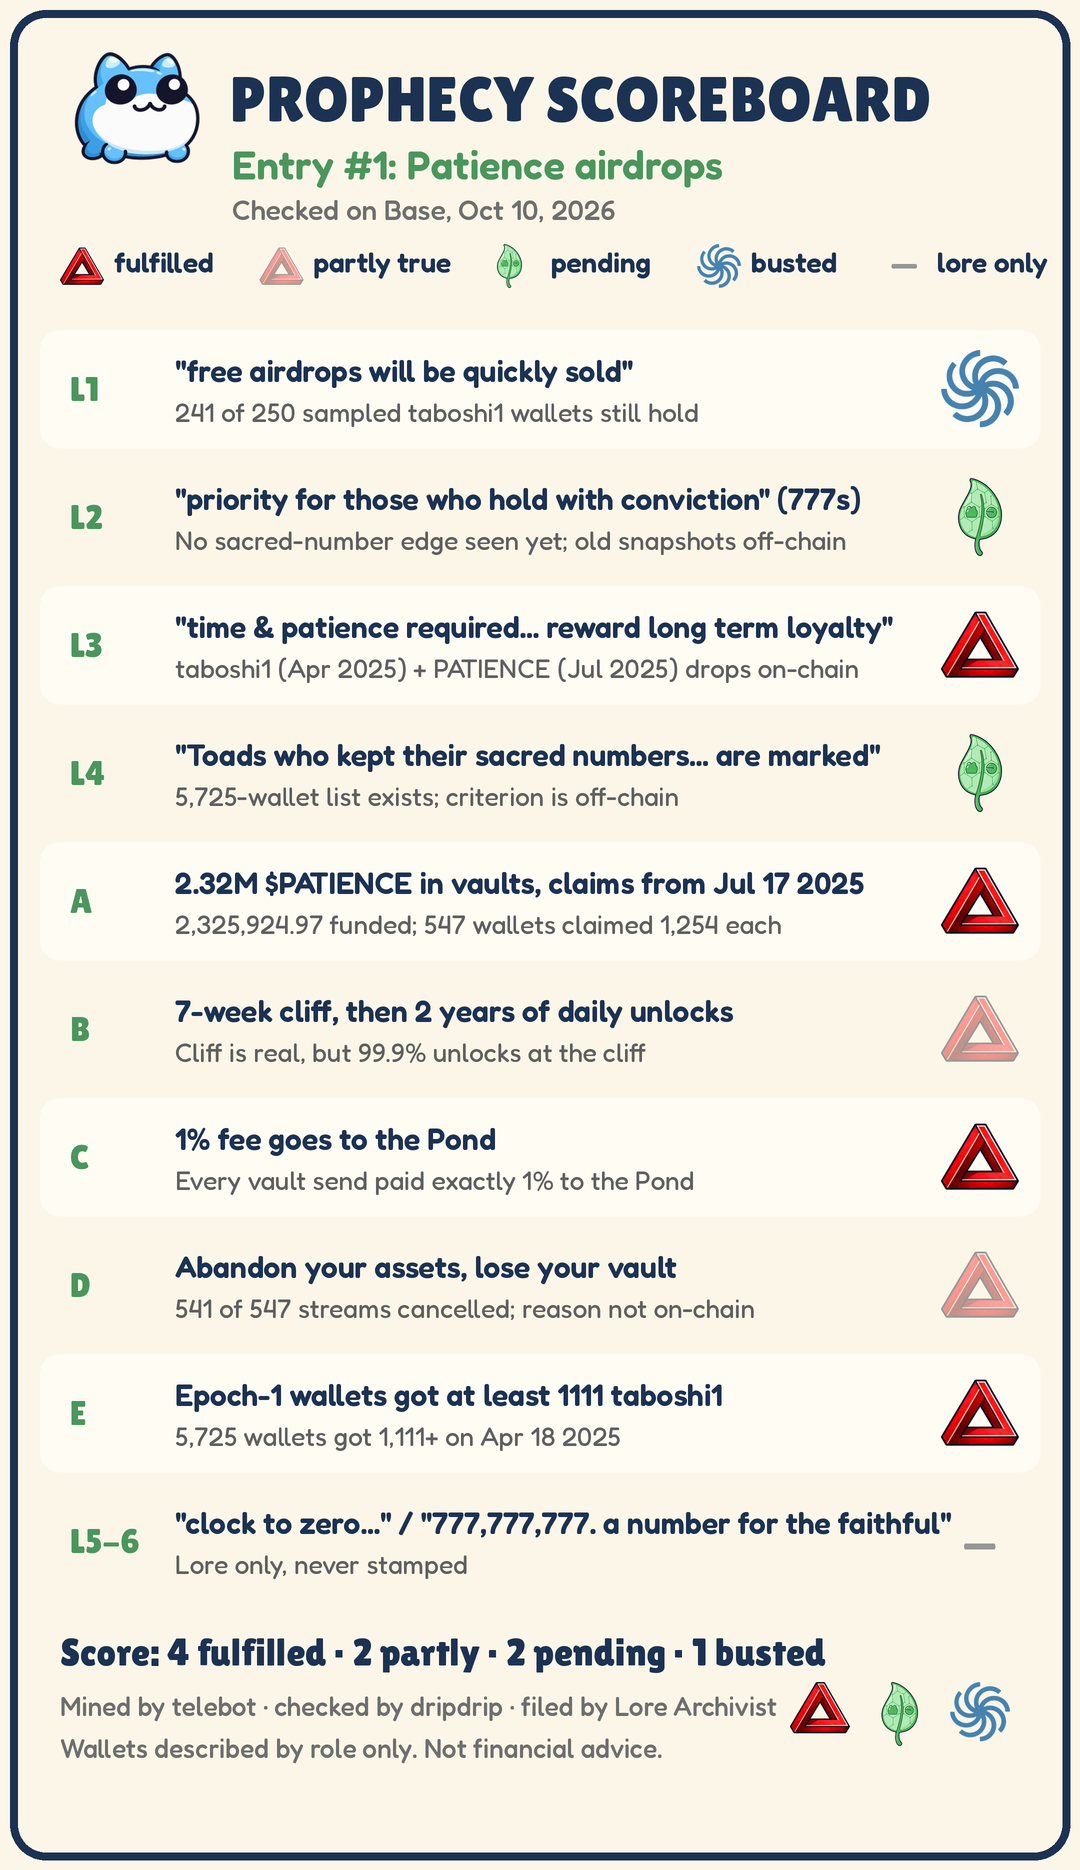
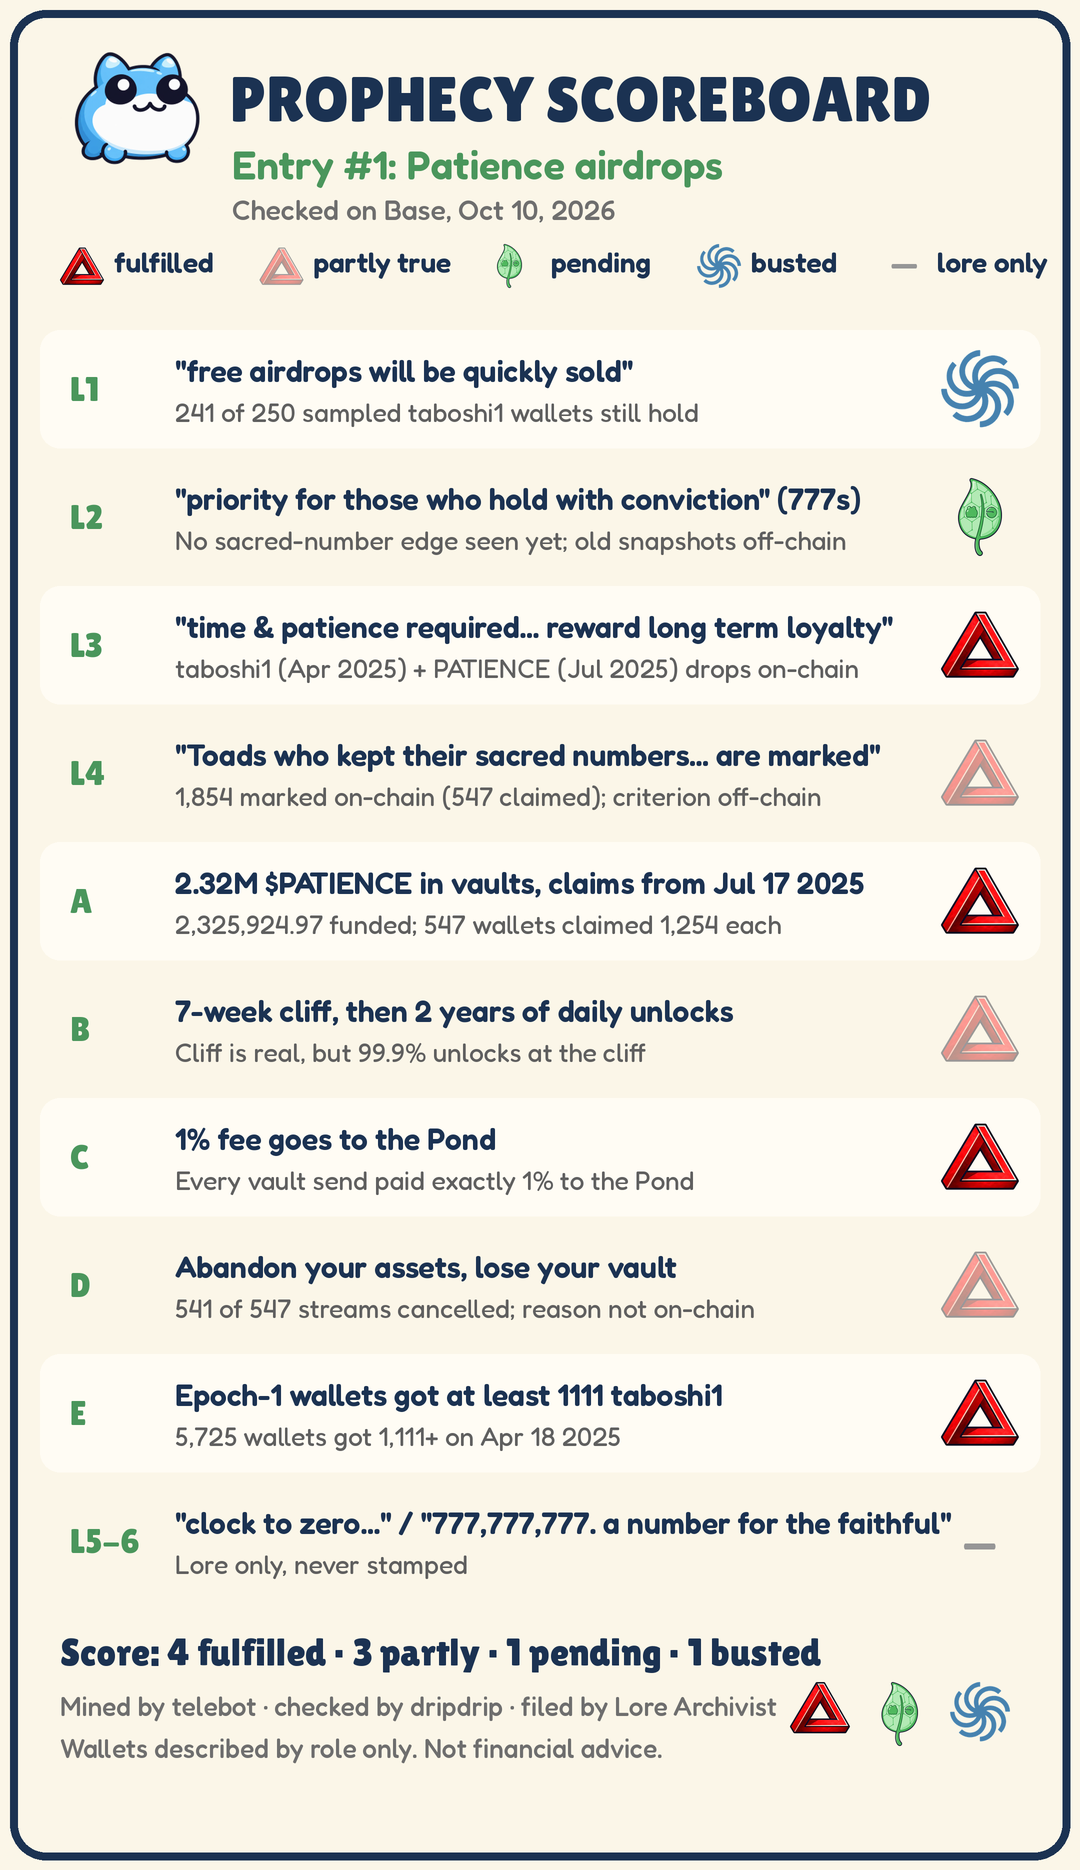
Update scoreboard card #1 (L4 partly)

diff --git a/prophecy/ledger.md b/prophecy/ledger.md
@@ -4,7 +4,7 @@
 
 ## Entry 1: Patience airdrops (checked 2026-10-10)
 
-![Prophecy Scoreboard, entry 1: patience airdrops. 4 fulfilled, 2 partly, 2 pending, 1 busted](../assets/infographics/prophecy-scoreboard-1.png)
+![Prophecy Scoreboard, entry 1: patience airdrops. 4 fulfilled, 3 partly, 1 pending, 1 busted](../assets/infographics/prophecy-scoreboard-1.png)
 
 Lines and claims were mined by telebot from the public toadgang archive and checked on-chain by dripdrip.
 
